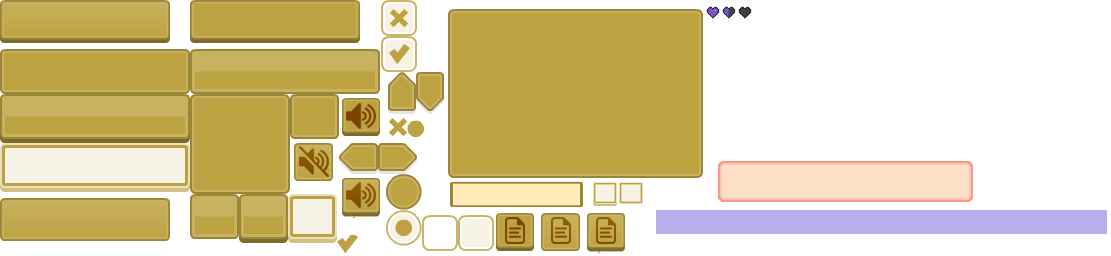
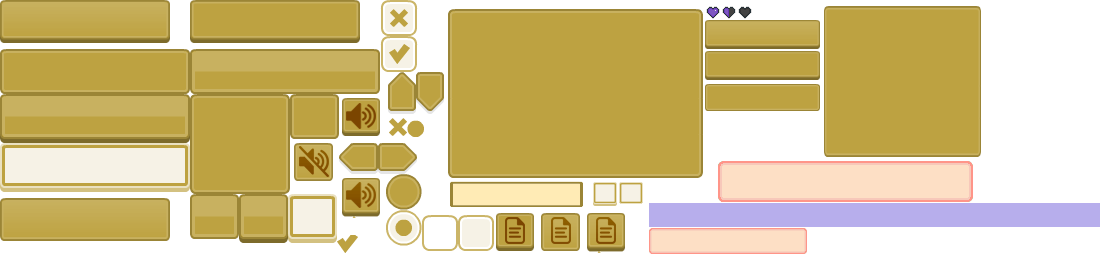
Added Menu Pause

Changed region(s): [[0.6121, 0.0, 0.8875, 0.625], [0.5815, 0.7812, 1.0, 1.0]]

diff --git a/Dev_class5_handout/Motor2D/j1Scene_UI.cpp b/Dev_class5_handout/Motor2D/j1Scene_UI.cpp
@@ -35,8 +35,8 @@ bool j1Scene_UI::Start()
 {
 	PERF_START(ptimer);
 	bool ret = true;
-	App->gui->CreateSprite({ 0,0 }, { 657,210,451,31 }, true);
-	App->gui->CreateLabel({ 220, 5 }, "SCORE", Label_Type::CONFIG, {255,255,255,255}, true);
+	App->gui->CreateSprite({ 0,0 }, { 649,203,451,24 }, true);
+	App->gui->CreateLabel({ 220, 5 }, "SCORE", Label_Type::CONFIG, { 255,255,255,255 }, true);
 	score_label = App->gui->CreateLabel({ 290,5 }, player_score_string, Label_Type::CONFIG, { 255,255,255,255 }, true);
 	App->gui->CreateLabel({ 80, 5 }, "TIMER", Label_Type::CONFIG, { 255,255,255,255 }, true);
 	timer_label = App->gui->CreateLabel({ 165,5 }, timer_string, Label_Type::CONFIG, { 255,255,255,255 }, true);
@@ -44,6 +44,11 @@ bool j1Scene_UI::Start()
 	App->gui->CreateSprite({ 30,5 }, { 706,6,14,13 }, true);
 	App->gui->CreateSprite({ 50,5 }, { 706,6,14,13 }, true);
 
+	App->gui->CreateSprite({ 80, 30 }, { 649,228,158,26 }, true);
+	App->gui->CreateSprite({ 80,70 }, { 824, 6, 157, 151 }, true);
+	App->gui->CreateLabel({ 100,35 }, "Pause Menu", CONFIG, {255,255,255,255}, true);
+	SDL_Rect button_rect[3] = { { 705,20,115,29 }, { 705,51,115,29 }, { 705,82,115,29 } };
+	App->gui->CreateButton({ 105,80 }, Button_Type::PLAY, button_rect[0], &button_rect[1], &button_rect[2], "Resume", true);
 	
 	return ret;
 }

diff --git a/Dev_class5_handout/Motor2D/j1Scene.cpp b/Dev_class5_handout/Motor2D/j1Scene.cpp
@@ -58,7 +58,7 @@ bool j1Scene::Start()
 
 	RELEASE_ARRAY(data);
 
-	App->render->camera = { -150, 0 };
+	App->render->camera = { 0, -150 };
 
 	pugi::xml_parse_result result = entities_files.load_file(path.GetString());
 
@@ -70,6 +70,7 @@ bool j1Scene::Start()
 
 	App->entity_manager->LoadPlayer();
 	App->entity_manager->LoadEnemies(entities_files);
+	App->gui->Start();
 
 	return ret;
 }
@@ -99,7 +100,7 @@ bool j1Scene::Update(float dt)
 		App->render->camera.x = -App->entity_manager->GetPlayer()->position.x*App->win->GetScale() + App->win->GetWidth() / 4;
 	}
 
-	App->render->camera.y = (int)App->map->data.player_properties.Get("camera.y");
+	App->render->camera.y = -150;
 
 	App->map->Draw();
 	App->scene_ui->Update(dt);

diff --git a/Dev_class5_handout/Motor2D/UI_Button.cpp b/Dev_class5_handout/Motor2D/UI_Button.cpp
@@ -43,7 +43,7 @@ UI_Button::~UI_Button()
 bool UI_Button::Start()
 {
 	if (button_text.Length() > 0)
-		App->gui->CreateLabel({ pos.x + 10, pos.y + 5 }, button_text.GetString(), BUTTON, {0,0,0,0}, static_object, this);
+		App->gui->CreateLabel({ pos.x + 10, pos.y + 5 }, button_text.GetString(), CONFIG, {0,0,0,0}, static_object, this);
 	return true;
 }
 

diff --git a/Dev_class5_handout/Motor2D/UI_GUI.cpp b/Dev_class5_handout/Motor2D/UI_GUI.cpp
@@ -56,7 +56,7 @@ bool UI_GUI::Update(float dt)
 	if (static_object)
 	{
 		position = { pos.x - App->render->camera.x / (int)App->win->GetScale(), pos.y - App->render->camera.y / (int)App->win->GetScale() };
-		mouse_position = { x,y };
+		mouse_position = { x,y - App->render->camera.y / (int)App->win->GetScale() };
 	}
 	else
 	{

diff --git a/Dev_class5_handout/Motor2D/j1Fonts.h b/Dev_class5_handout/Motor2D/j1Fonts.h
@@ -41,7 +41,7 @@ public:
 	_TTF_Font*			default;
 	_TTF_Font*			title_config;
 	_TTF_Font*			title;
-	_TTF_Font*  title_buttons;
+	_TTF_Font*			title_buttons;
 };
 
 

diff --git a/Dev_class5_handout/Motor2D/j1Scene2.cpp b/Dev_class5_handout/Motor2D/j1Scene2.cpp
@@ -97,6 +97,7 @@ bool j1Scene2::Update(float dt)
 	}
 
 	App->map->Draw();
+	App->scene_ui->Update(dt);
 
 	return true;
 }
